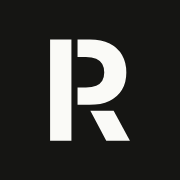
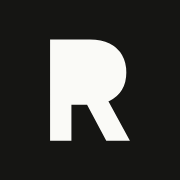
update R

Changed region(s): [[0.3889, 0.1944, 0.5833, 0.5833], [0.4722, 0.5556, 0.6389, 0.6389]]

diff --git a/src/assets/css/site.css b/src/assets/css/site.css
@@ -24,7 +24,7 @@
   /* Type */
   --serif: "Newsreader", "Iowan Old Style", Georgia, serif;
   --sans: "Instrument Sans", -apple-system, BlinkMacSystemFont, "Segoe UI", sans-serif;
-  --mark: "Helvetica Neue", Helvetica, "Inter Tight", Arial, sans-serif;
+  --mark: "Inter Tight", "Helvetica Neue", Helvetica, Arial, sans-serif;
 
   /* Space */
   --gutter: clamp(20px, 4.2vw, 56px);
@@ -92,10 +92,8 @@ a, button { -webkit-tap-highlight-color: transparent; touch-action: manipulation
 /* Header */
 .site-header { display: flex; justify-content: space-between; align-items: baseline; gap: 16px 32px; flex-wrap: wrap; padding: 28px 0; }
 .brand { font-family: var(--mark); font-size: 24px; font-weight: 700; letter-spacing: -0.03em; line-height: 1; white-space: nowrap; }
-/* The built letters, sized to cap height (R) and x-height (a) so they sit on the baseline with the rest of the name */
-.brand-r, .brand-a { display: inline-block; fill: currentColor; vertical-align: baseline; overflow: visible; }
-.brand-r { height: 0.72em; width: 0.66em; margin-right: -0.01em; }
-.brand-a { height: 0.53em; width: 0.57em; margin-right: -0.03em; }
+/* Inter Tight's own R with the hole filled. Sized to its cap height and advance width so it sits exactly where the letter would. */
+.brand-r { display: inline-block; height: 0.7275em; width: 0.624em; margin-right: -0.03em; fill: currentColor; vertical-align: baseline; overflow: visible; }
 .site-nav { display: flex; gap: 28px; font-size: 15px; color: var(--muted); }
 .site-nav a { transition: color 200ms var(--ease); }
 .site-nav a:hover { color: var(--ink); }

diff --git a/CLAUDE.md b/CLAUDE.md
@@ -65,7 +65,7 @@ To add one, make a single-color PNG in `src/assets/images/logos/`: flatten on wh
 
 ## Wordmark and favicon
 
-The R in "Ran Craycraft" is built from three plain shapes, a stem, a solid half-circle bowl (no counter) and a diagonal leg, drawn as one path so there are no seams. Both lowercase a's get the same treatment, a solid circle and a stem with no hole. The header draws the name with `src/_includes/brand-name.njk`, which keeps the real letter in the text for search and screen readers. The favicon (`src/assets/favicon.svg`) and the home-screen icons (`apple-touch-icon.png`, `icon-512.png`) use the same R in paper on ink. Keep all of them in step if the mark changes.
+The wordmark is set in Inter Tight Bold, self-hosted, so it looks the same on every device (Helvetica Neue is only a fallback). The R is Inter Tight's own bold R with its hole filled in. Only the R is built. Filled-in a's were tried and made the name hard to read. The header draws it with `src/_includes/brand-name.njk`, which keeps the real letter in the text for search and screen readers. The favicon (`src/assets/favicon.svg`) and the home-screen icons (`apple-touch-icon.png`, `icon-512.png`) use the same R in paper on ink. Keep all of them in step if the mark changes.
 
 ## Read next
 
